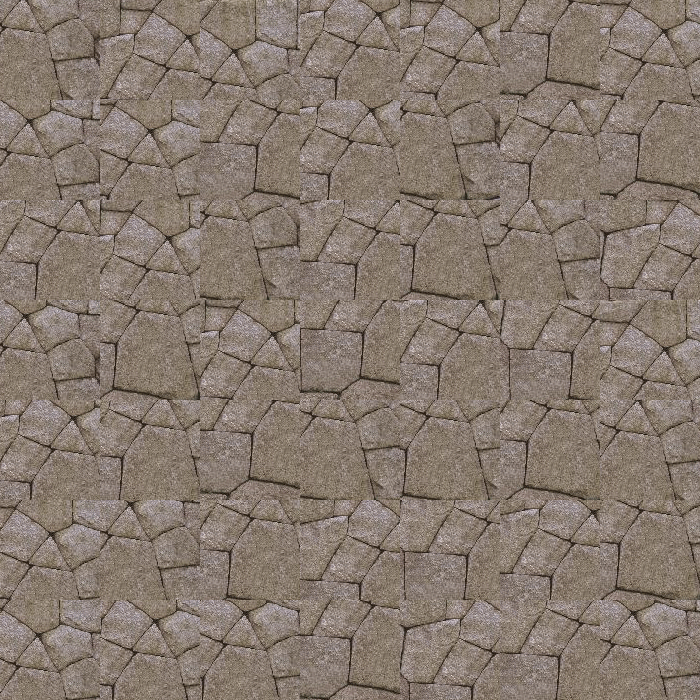
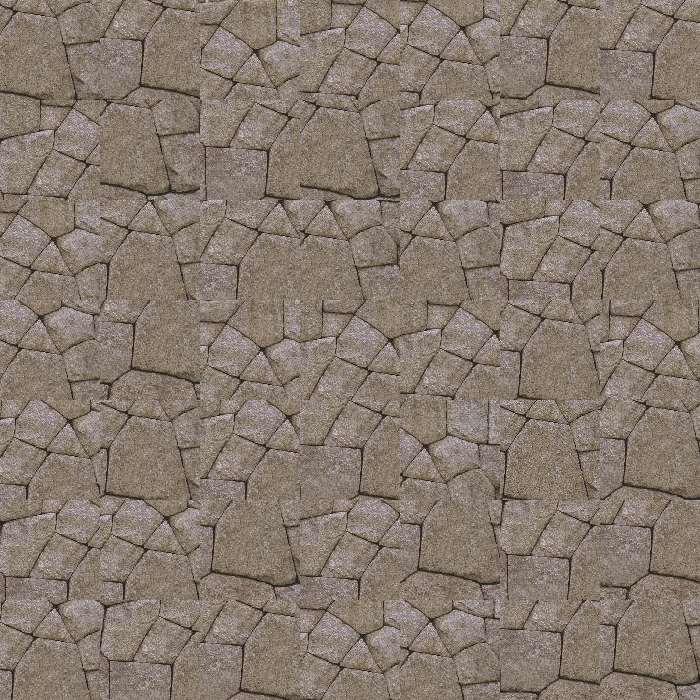
quilting simple produces output but buggy

diff --git a/src/quilting.cpp b/src/quilting.cpp
@@ -77,6 +77,7 @@ vector <vector<int>> find_patches(const FloatImage &sample, int patch_size) {
     // select the first "num_patches number" of x,y pairs to be saved to out_pairs
     for (int i=0; i<num_patches; i++){
         out_coords.push_back(all_coords[i]);
+       // cout << out_coords[i][0] << "," << out_coords[i][1] << endl;
     }
     
     return out_coords;
@@ -89,7 +90,7 @@ vector <vector<int>> find_patches(const FloatImage &sample, int patch_size) {
 // };
             
 // Perform simple quilting by overlapping patches to minimize SSD in the overlapping regions
-FloatImage quilt_simple(const FloatImage &sample, int out_size, int patch_size, int overlap, int tol) {
+FloatImage quilt_simple(const FloatImage &sample, int out_size, int patch_size, int overlap, float tol) {
     
     FloatImage output(out_size, out_size, sample.channels()); // initialize output image
     
@@ -105,14 +106,15 @@ FloatImage quilt_simple(const FloatImage &sample, int out_size, int patch_size, 
 			}
 		}
 	}
-    
-    // Loop over output image in increments of (patch size - overlap) (making sure patches don't go out of bounds)
-    for (int out_x = patch_size-overlap; out_x < output.width() - patch_size; out_x += patch_size) {
-        for (int out_y = patch_size-overlap; out_y < output.height() - patch_size; out_y += patch_size) {
 
-            // use find_patches helper function to get a randomized list (x,y) patch coordinates
-            vector<vector<int>> patches = find_patches(sample, patch_size);
-            
+    // use find_patches helper function to get a randomized list (x,y) patch coordinates
+    vector<vector<int>> patches = find_patches(sample, patch_size);
+    bool first = true;
+    // Loop over output image in increments of (patch size - overlap) (making sure patches don't go out of bounds)
+    for (int out_x = 0; out_x < output.width() - patch_size; out_x += patch_size - overlap) {
+       for (int out_y = 0; out_y < output.height() - patch_size; out_y += patch_size - overlap) {
+            cout << "looping over output image at " << "(" << out_x << ", " << out_y << ")" << endl;
+
             // Vector that holds SSD values of all selected patches
             vector<float> SSD_values;
 
@@ -120,9 +122,10 @@ FloatImage quilt_simple(const FloatImage &sample, int out_size, int patch_size, 
 
             // Loop over all selected patches
             for (int i = 0; i < patches.size(); i++){
+               // cout << "looping over patches" << endl;
             
                 // initialize SSD of the current patch to store running sum of its SSD
-                float patch_SSD = 0;
+                float patch_SSD = 0.f;
 
                 // If we're not bordering the image's left-edge then loop over the overlap of patch-left with output-right
                 if (out_x > 0) {
@@ -132,7 +135,7 @@ FloatImage quilt_simple(const FloatImage &sample, int out_size, int patch_size, 
                         for (int y1=0; y1<patch_size; y1++){
                             // for each channel
                             for (int c=0; c<sample.channels(); c++){
-                                patch_SSD += pow( sample(x1+patches[i][0], y1+patches[i][1], c) - output(out_x+x1, out_y+y1, c), 2);
+                                patch_SSD += pow( sample(x1+patches[i][0], y1+patches[i][1], c) - output(out_x-overlap+x1, out_y-overlap+y1, c), 2);
                             }
                         }
                     }
@@ -146,14 +149,15 @@ FloatImage quilt_simple(const FloatImage &sample, int out_size, int patch_size, 
                         for (int y1; y1<overlap; y1++){
                             // for each channel
                             for (int c=0; c<sample.channels(); c++){
-                                patch_SSD += pow( sample(x1+patches[i][0], y1+patches[i][1], c) - output(out_x+x1, out_y+y1, c), 2);
+                                patch_SSD += pow( sample(x1+patches[i][0], y1+patches[i][1], c) - output(out_x-overlap+x1, out_y-overlap+y1, c), 2);
                             }
                         }
                     }
                 }
                 
                 // Record SSD for this patch
-                SSD_values[i] = patch_SSD;
+                SSD_values.push_back(patch_SSD);
+                //cout << "SSD:values at" << i << "=" << patch_SSD << endl;
 				// patch_SSD_values.coords = patches[i];
 				// patch_SSD_values.value = patch_SSD;
 				
@@ -163,53 +167,67 @@ FloatImage quilt_simple(const FloatImage &sample, int out_size, int patch_size, 
             // find the lowest 10% values in SSD_values
             // randomly select one of those values, store the corresponding (x, y) in variables best_pat_x, best_pat_y
             
-			// Sort the SSD_values and patch vectors simultaneously
-			int min = SSD_values[0];
-			int min_idx = 0;
-			for (int i = 0; i < SSD_values.size(); i++) {
-				if (SSD_values[i] < min) {
-					int swap = SSD_values[min_idx];
-					SSD_values[min_idx] = SSD_values[i];
-					SSD_values[i] = swap;
+			// // Sort the SSD_values and patch vectors simultaneously
+			// int min = SSD_values[0];
+			// int min_idx = 0;
+			// for (int i = 0; i < SSD_values.size(); i++) {
+			// 	if (SSD_values[i] < min) {
+			// 		int swap = SSD_values[min_idx];
+			// 		SSD_values[min_idx] = SSD_values[i];
+			// 		SSD_values[i] = swap;
 					
-					vector<int> temp = patches[min_idx];
-					patches[min_idx] = patches[i];
-					patches[i] = temp;
+			// 		vector<int> temp = patches[min_idx];
+			// 		patches[min_idx] = patches[i];
+			// 		patches[i] = temp;
 
-					min_idx = i;
-				}
-			}
+			// 		min_idx = i;
+			// 	}
+			// }
 
 			// IDEA FOR OPTIMIZATION: take global min of SSD and put it into a new vector, then set it in the original vector to be a large number, then grab global min again, repeat
 			vector<vector<int>> best_pairs; 
 
+            //float num = SSD_values.size() * tol;
+            //cout << SSD_values.size() << endl;
+
 			for (int i = 0; i < SSD_values.size() * tol; i++) {
-				float min_idx = 0;
+				int min_idx = 0;
+                //cout << "entered for loop" << endl;
 				for (int j = 0; j < SSD_values.size(); j++) {
 					if (SSD_values[j] >= 0 && SSD_values[j] < SSD_values[min_idx]) {
 						min_idx = j;
+                        //cout << "updated min_idx=" << min_idx << endl;
 					}
 				}
 				best_pairs.push_back(patches[min_idx]);
-				SSD_values[min_idx] = -1; // remove it from consideration
+                cout << SSD_values[i] << endl;
+				SSD_values[min_idx] = 1e7; // remove it from consideration
 			}
 
 
 			// randomly pick a best patch with lowest SSD limited by tolerance
-			int rand_idx = rand() % (SSD_values.size() * tol);
+			int rand_idx = rand() % (int)(SSD_values.size() * tol);
 
-            // for pixels from out_x to out_x + patchsize
-            for (int x = 0; x < patch_size; x++){
-                // for pixels from out_y to out_y + patchsize
-                for (int y = 0; y < patch_size; y++){
-					for (int c = 0; c < output.channels(); c++) {
-                     	// output(out_x + x, out_y + y, c) = sample(best_pat_x + x, best_pat_y + x, c)
-                     	output(out_x + x, out_y + y, c) = sample(patches[rand_idx][0] + x, patches[rand_idx][1] + x, c);
-					}
+            
+        
+            if (first) {
+            if (out_x > 0 || out_y > 0) {
+                // for pixels from out_x to out_x + patchsize
+                for (int x = 0; x < patch_size; x++){
+                    // for pixels from out_y to out_y + patchsize
+                    for (int y = 0; y < patch_size; y++){
+                        for (int c = 0; c < output.channels(); c++) {
+                            // output(out_x + x, out_y + y, c) = sample(best_pat_x + x, best_pat_y + x, c)
+                            output(out_x + x, out_y + y, c) = sample(patches[rand_idx][0] + x, patches[rand_idx][1] + y, c);
+                            first = false;
+                        }
+                    }
                 }
+            }
             }
         }
     }
+    return output;
 }
   
   

diff --git a/src/quilting_main.cpp b/src/quilting_main.cpp
@@ -23,21 +23,30 @@ void testRandomQuilting()
 }
 
 // //test texture synthesis with simple quilting (overlapping method)
-// void testSimpleQuilting()
-// {
-//     FloatImage sample(DATA_DIR "/input/sample-texture.png");
-//     int outsize=
-//     int patchsize=
-//     tol = 
-//     overlap =
-//     FloatImage random_output=  quilt_simple(sample, out_size, patch_size, overlap, tol)
-//     random_output.write(DATA_DIR "/output/sample-random.png");
-// }
+void testSimpleQuilting()
+{
+    //FloatImage stones_sample(DATA_DIR "/input/stones.png");
+    FloatImage mat_sample(DATA_DIR "/input/mat.png");
+    //FloatImage text_sample(DATA_DIR "/input/text.png");
+
+    int outsize=700;
+    int patchsize=100;
+    float tol = .05;
+    int overlap = 20;
+
+
+    //FloatImage stones_simple = quilt_simple(stones_sample, outsize, patchsize, overlap, tol);
+    FloatImage mat_simple = quilt_simple(mat_sample, outsize, patchsize, overlap, tol);
+    //FloatImage text_simple = quilt_simple(text_sample, outsize, patchsize, overlap, tol);
+
+    //stones_simple.write(DATA_DIR "/output/stones_simple.png");
+    mat_simple.write(DATA_DIR "/output/mat_simple.png");
+}
 
 int main()
 {
     cout << "compiled" << endl;
     testRandomQuilting();
-    // testSimpleQuilting();
+    testSimpleQuilting();
     
 }

diff --git a/src/quilting.h b/src/quilting.h
@@ -4,5 +4,5 @@
 #include "floatimage.h"
 
 FloatImage quilt_random(const FloatImage &sample, int outsize, int patchsize);
-FloatImage quilt_simple(const FloatImage &sample, int out_size, int patch_size, int overlap, int tol=0.10);
-vector <vector<int>> find_patches(const FloatImage &sample, int patch_size);
+FloatImage quilt_simple(const FloatImage &sample, int out_size, int patch_size, int overlap, float tol=0.10);
+std::vector <std::vector<int>> find_patches(const FloatImage &sample, int patch_size);
